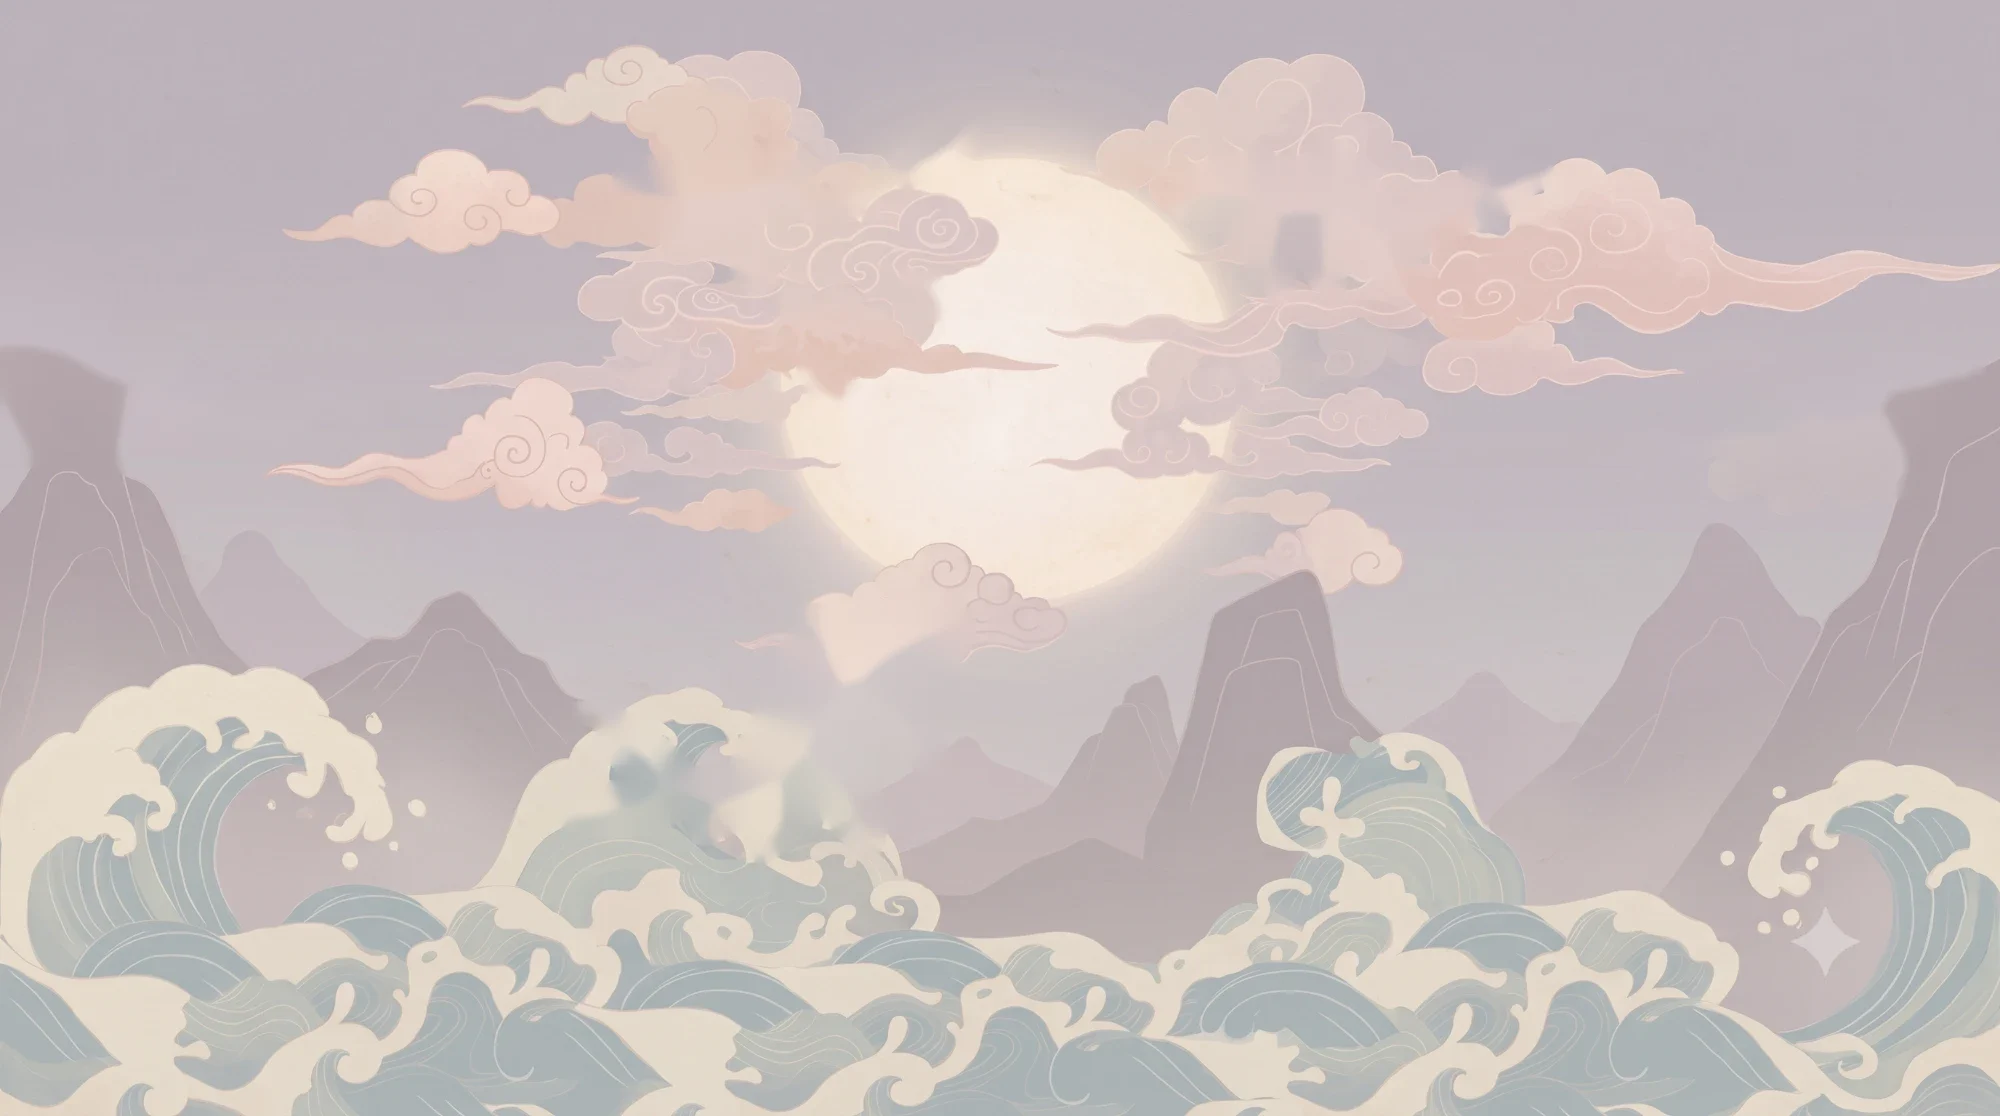
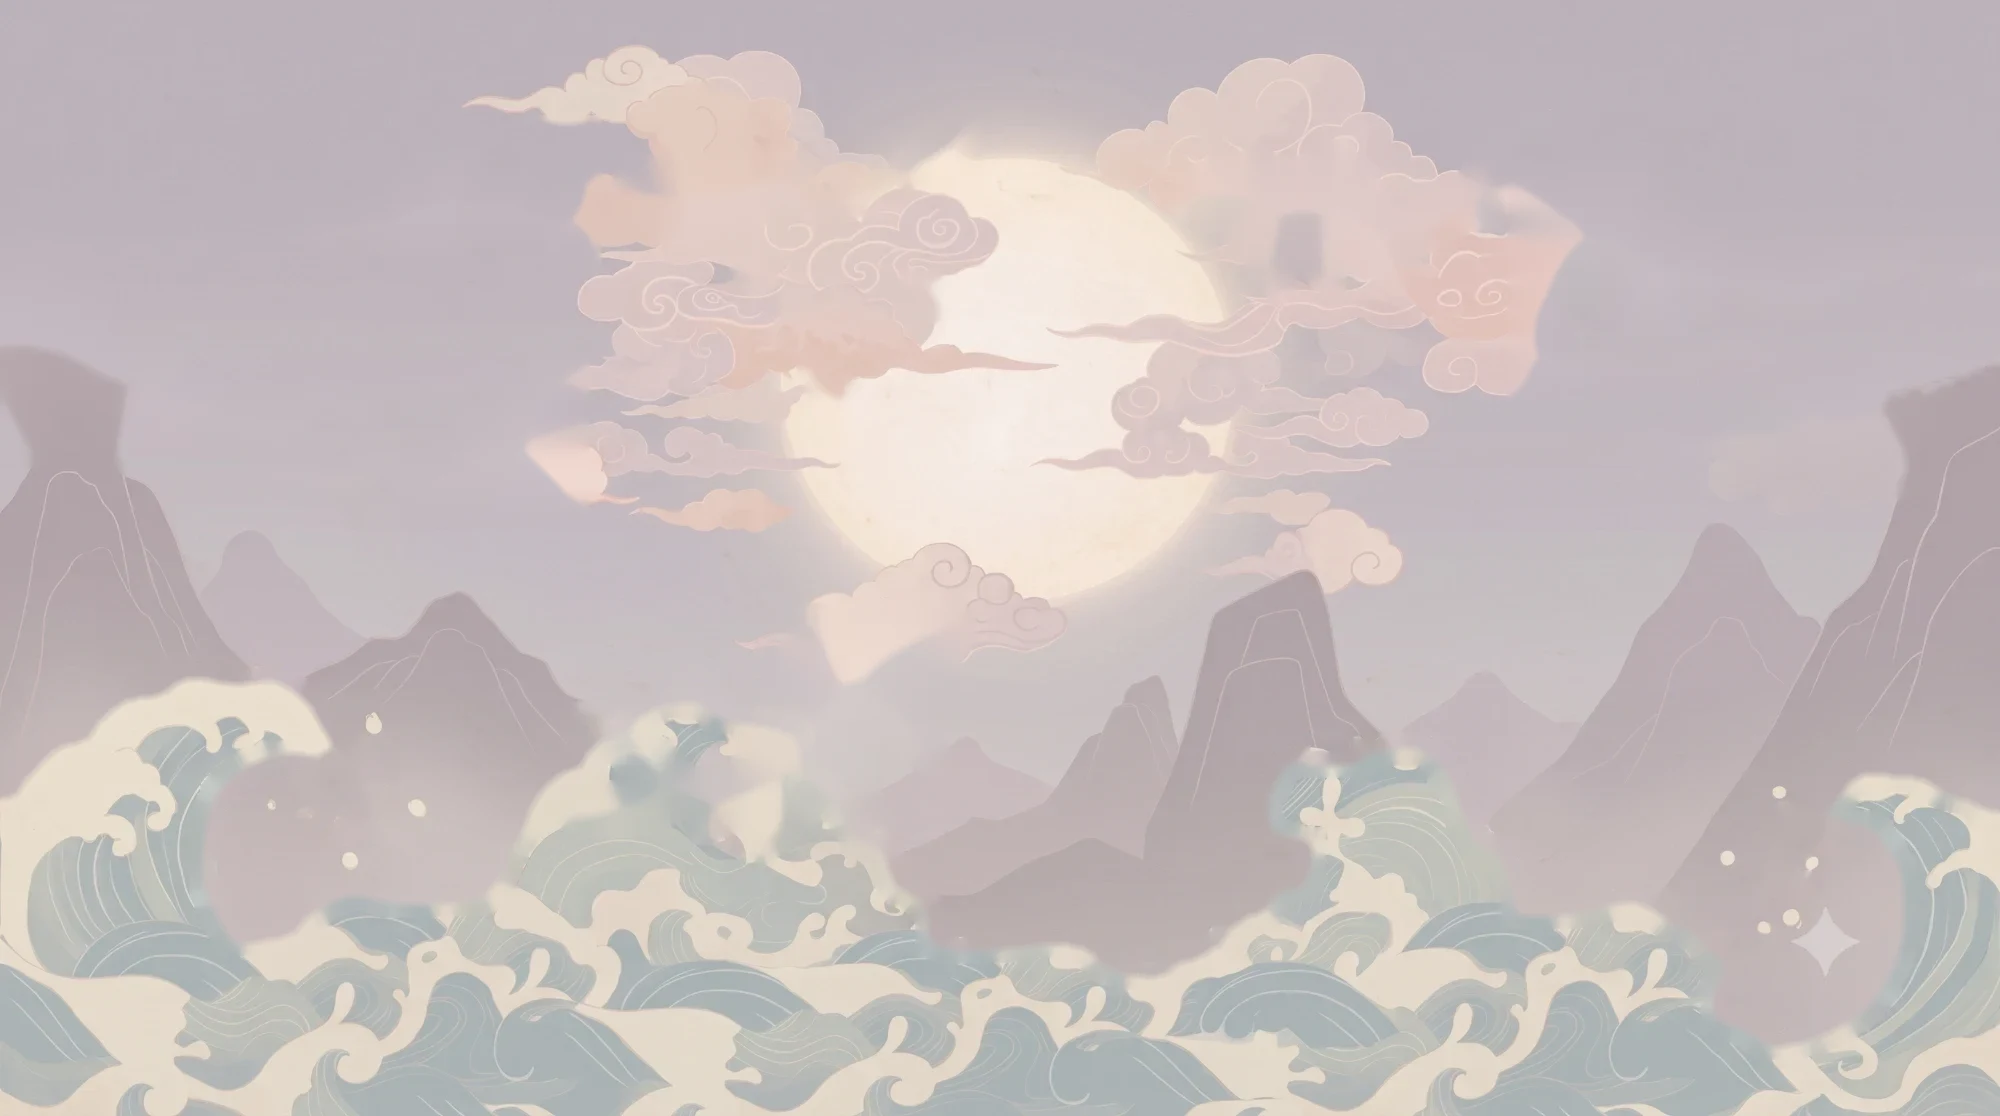
Nền phần sách động hơn: sóng cắt từ tranh dâng hạ và xô qua lại, mây trôi liên tục (thêm 3 đám cắt từ tranh), cá uốn thân quẫy đuôi và bơi vòng rộng

diff --git a/app.js b/app.js
@@ -2190,9 +2190,11 @@
    * Nền phần sách vẽ bằng canvas từ chính bức tranh cá chép (images/nen/):
    * nen.webp là tranh đã xoá 3 cá và 2 cụm mây ngoài (chỗ trống đã vá),
    * các lớp còn lại cắt ra từ tranh, đặt lại đúng toạ độ cũ rồi chuyển động:
-   *  - mây hai bên bay vào từ ngoài khung khi cuộn tới phần sách, sau đó trôi nhẹ;
-   *  - cá bơi lượn quanh chỗ cũ: lượn ngang, nhấp nhô, nghiêng mình như quẫy đuôi.
-   * Biên độ nhỏ để không lộ chỗ vá. Chỉ vẽ khi phần sách đang trên màn hình và tab đang mở.
+   *  - mây hai bên bay vào từ ngoài khung khi cuộn tới phần sách, rồi cùng ba đám mây khác trôi qua lại không ngừng;
+   *  - cá bơi lượn vòng rộng, thân cắt thành dải dọc uốn sóng từ đầu ra đuôi như đang quẫy;
+   *  - lớp sóng cắt từ tranh: ngọn sóng xô qua lại, cả dải sóng dâng hạ theo nhịp chạy ngang (sóng đánh).
+   * Phía sau các lớp đã được vá (inpaint) nên khi lớp di chuyển không lộ hình gốc bị nhân đôi.
+   * Chỉ vẽ khi phần sách đang trên màn hình và tab đang mở.
    * Giảm chuyển động: vẽ tĩnh. Canvas lỗi thì vẫn còn ảnh gốc (.scene-fallback).
    * ==================================================================== */
   (function sceneCanvas() {
@@ -2201,15 +2203,22 @@
     const ctx = cv.getContext('2d');
     const W = 2000, H = 1116, FOCUS_X = 0.505; // toạ độ tranh gốc; giữ trăng ở giữa khi cắt khung dọc
     const LAYERS = [
-      { src: 'may-trai', x: 0, y: 243, w: 387, h: 230, kind: 'cloud', from: -1, phase: 0.4, delay: 0 },
-      { src: 'may-phai', x: 1657, y: 345, w: 327, h: 153, kind: 'cloud', from: 1, phase: 2.1, delay: 0.15 },
-      { src: 'ca-trai', x: 607, y: 113, w: 374, h: 343, kind: 'fish', ax: 4, ay: 5, rot: 1.2, speed: 0.55, phase: 4 },
-      { src: 'ca-phai', x: 1169, y: 105, w: 385, h: 198, kind: 'fish', ax: 16, ay: 8, rot: 3, speed: 0.45, phase: 1.3 },
-      { src: 'ca-duoi', x: 561, y: 595, w: 412, h: 268, kind: 'fish', ax: 12, ay: 12, rot: 4, speed: 0.6, phase: 0 }
+      // Mây: hai đám bên mép bay vào từ ngoài khung rồi trôi qua lại; ba đám cắt từ tranh trôi chậm tại chỗ
+      { src: 'may-d', x: 262, y: 118, w: 400, h: 150, kind: 'cloud', from: 0, amp: 26, sp: 0.16, phase: 0.9 },
+      { src: 'may-e', x: 1418, y: 148, w: 582, h: 250, kind: 'cloud', from: 0, amp: 30, sp: 0.13, phase: 2.6 },
+      { src: 'may-c', x: 250, y: 356, w: 406, h: 166, kind: 'cloud', from: 0, amp: 24, sp: 0.19, phase: 4.1 },
+      { src: 'may-trai', x: 0, y: 243, w: 387, h: 230, kind: 'cloud', from: -1, amp: 64, sp: 0.11, phase: 0.4, delay: 0 },
+      { src: 'may-phai', x: 1657, y: 345, w: 327, h: 153, kind: 'cloud', from: 1, amp: 56, sp: 0.14, phase: 2.1, delay: 0.15 },
+      // Cá: bơi lượn theo vòng rộng, thân uốn sóng từ đầu tới đuôi (tail: phía đuôi trong ảnh)
+      { src: 'ca-trai', x: 607, y: 113, w: 374, h: 343, kind: 'fish', tail: 'r', ax: 26, ay: 12, rot: 3, speed: 0.42, phase: 4, wag: 7 },
+      { src: 'ca-phai', x: 1169, y: 105, w: 385, h: 198, kind: 'fish', tail: 'r', ax: 34, ay: 10, rot: 3.5, speed: 0.36, phase: 1.3, wag: 6 },
+      { src: 'ca-duoi', x: 561, y: 595, w: 412, h: 268, kind: 'fish', tail: 'l', ax: 22, ay: 16, rot: 5, speed: 0.5, phase: 0, wag: 8 }
     ];
+    const WAVE = { src: 'song', y: 661, h: 455 }; // lớp sóng cắt từ tranh: dâng hạ và cuộn qua lại
     const ENTER = 2.2; // giây mây bay vào
     const imgs = {};
     let scale = 1, ox = 0, oy = 0, enterAt = null, inView = false, raf = 0;
+    const wc = document.createElement('canvas'), wctx = wc.getContext('2d');
 
     const load = (name) => new Promise((ok, fail) => { const im = new Image(); im.onload = () => ok(im); im.onerror = fail; im.src = `images/nen/${name}.webp`; imgs[name] = im; });
     const easeOut = (t) => 1 - Math.pow(1 - t, 3);
@@ -2222,6 +2231,47 @@
       scale = Math.max(cv.width / W, cv.height / H);            // phủ kín khung (cover)
       ox = Math.min(0, Math.max(cv.width - W * scale, cv.width / 2 - W * scale * FOCUS_X));
       oy = (cv.height - H * scale) / 2;
+      wc.width = Math.max(1, Math.ceil(W * scale));
+      wc.height = Math.max(1, Math.ceil(WAVE.h * scale));
+    }
+
+    // Sóng: lượt 1 xô từng hàng qua lại (ngọn sóng lắc mạnh hơn chân), lượt 2 dâng hạ từng cột theo nhịp chạy ngang
+    function drawWaves(t) {
+      const im = imgs[WAVE.src];
+      if (reduceMotion) { ctx.drawImage(im, 0, WAVE.y, W, WAVE.h); return; }
+      const sy = im.naturalHeight / WAVE.h, ROW = 5, COL = 8, PAD = 16;
+      wctx.setTransform(1, 0, 0, 1, 0, 0);
+      wctx.clearRect(0, 0, wc.width, wc.height);
+      wctx.setTransform(scale, 0, 0, scale, 0, 0);
+      for (let y = 0; y < WAVE.h; y += ROW) {
+        const k = 1 - y / WAVE.h;
+        const dx = (Math.sin(t * 1.1 + y * 0.021) * 9 + Math.sin(t * 0.55 + y * 0.047) * 4) * (0.3 + 0.7 * k * k);
+        const h = Math.min(ROW + 1, WAVE.h - y);
+        wctx.drawImage(im, 0, y * sy, im.naturalWidth, h * sy, dx - PAD, y, W + PAD * 2, h);
+      }
+      for (let x = 0; x < W; x += COL) {
+        const dy = 7 * (1 + Math.sin(x * 0.0062 - t * 1.25)) + 2.5 * (1 + Math.sin(x * 0.019 + t * 1.8));
+        ctx.drawImage(wc, x * scale, 0, COL * scale + 1, wc.height, x, WAVE.y + dy, COL + 0.6, WAVE.h);
+      }
+    }
+
+    // Cá: cắt ảnh cá thành dải dọc, mỗi dải lệch lên xuống theo sóng chạy từ đầu ra đuôi (đuôi quẫy mạnh nhất)
+    function drawFish(L, t) {
+      const im = imgs[L.src];
+      const k = reduceMotion ? 0 : t * L.speed + L.phase;
+      const dx = Math.sin(k) * L.ax, dy = Math.sin(k * 2) * L.ay * 0.5 + Math.sin(k * 0.7) * L.ay * 0.5;
+      const rot = Math.sin(k * 1.6 + 0.8) * L.rot * Math.PI / 180;
+      ctx.save();
+      ctx.translate(L.x + L.w / 2 + dx, L.y + L.h / 2 + dy); ctx.rotate(rot);
+      if (reduceMotion) { ctx.drawImage(im, -L.w / 2, -L.h / 2, L.w, L.h); ctx.restore(); return; }
+      const sx = im.naturalWidth / L.w, SW = 6;
+      for (let x = 0; x < L.w; x += SW) {
+        const u = L.tail === 'r' ? x / L.w : 1 - x / L.w;           // 0 ở đầu, 1 ở đuôi
+        const off = L.wag * Math.pow(u, 1.6) * Math.sin(u * 5.2 - t * 4.2 + L.phase);
+        const w = Math.min(SW, L.w - x);
+        ctx.drawImage(im, x * sx, 0, w * sx, im.naturalHeight, -L.w / 2 + x, -L.h / 2 + off, w + 0.6, L.h);
+      }
+      ctx.restore();
     }
 
     function draw(now) {
@@ -2232,26 +2282,21 @@
       ctx.setTransform(scale, 0, 0, scale, ox, oy);
       ctx.drawImage(imgs.nen, 0, 0, W, H);
       for (const L of LAYERS) {
+        if (L.kind !== 'cloud') continue;
         const im = imgs[L.src];
-        if (L.kind === 'cloud') {
-          const p = reduceMotion ? 1 : easeOut(Math.min(1, Math.max(0, (e - L.delay) / ENTER)));
-          if (p <= 0) continue;
-          const fly = (1 - p) * L.from * (L.w + 260);                     // bay vào từ ngoài khung
-          const drift = reduceMotion ? 0 : Math.sin(t * 0.32 + L.phase) * 9 * p; // rồi trôi nhẹ
-          ctx.globalAlpha = Math.min(1, p * 1.4);
-          ctx.drawImage(im, L.x + fly + drift, L.y + (reduceMotion ? 0 : Math.sin(t * 0.25 + L.phase) * 3), L.w, L.h);
-          ctx.globalAlpha = 1;
-        } else {
-          const k = reduceMotion ? 0 : t * L.speed + L.phase;
-          const dx = Math.sin(k) * L.ax, dy = Math.sin(k * 2) * L.ay * 0.5 + Math.sin(k * 0.7) * L.ay * 0.5;
-          const rot = Math.sin(k * 1.6 + 0.8) * L.rot * Math.PI / 180;    // nghiêng mình như quẫy đuôi
-          const cx = L.x + L.w / 2, cy = L.y + L.h / 2;
-          ctx.save();
-          ctx.translate(cx + dx, cy + dy); ctx.rotate(rot);
-          ctx.drawImage(im, -L.w / 2, -L.h / 2, L.w, L.h);
-          ctx.restore();
-        }
+        const p = !L.from || reduceMotion ? 1 : easeOut(Math.min(1, Math.max(0, (e - L.delay) / ENTER)));
+        if (p <= 0) continue;
+        const fly = (1 - p) * L.from * (L.w + 260);                       // bay vào từ ngoài khung
+        const drift = reduceMotion ? 0 : Math.sin(t * L.sp + L.phase) * L.amp * p; // rồi trôi qua lại không ngừng
+        const bob = reduceMotion ? 0 : Math.sin(t * L.sp * 1.7 + L.phase) * 4;
+        ctx.globalAlpha = Math.min(1, p * 1.4);
+        ctx.drawImage(im, L.x + fly + drift, L.y + bob, L.w, L.h);
+        ctx.globalAlpha = 1;
       }
+      drawFish(LAYERS.find((l) => l.src === 'ca-trai'), t);
+      drawFish(LAYERS.find((l) => l.src === 'ca-phai'), t);
+      drawWaves(t);                                     // sóng che chân cá dưới, cá dưới vẫn nhô lên trên sóng
+      drawFish(LAYERS.find((l) => l.src === 'ca-duoi'), t);
     }
 
     function loop(now) {
@@ -2261,7 +2306,7 @@
     }
     const kick = () => { if (!raf) raf = requestAnimationFrame(loop); };
 
-    Promise.all(['nen', ...LAYERS.map((l) => l.src)].map(load)).then(() => {
+    Promise.all(['nen', WAVE.src, ...LAYERS.map((l) => l.src)].map(load)).then(() => {
       resize();
       draw(performance.now());
       $('.scene').classList.add('is-live');
